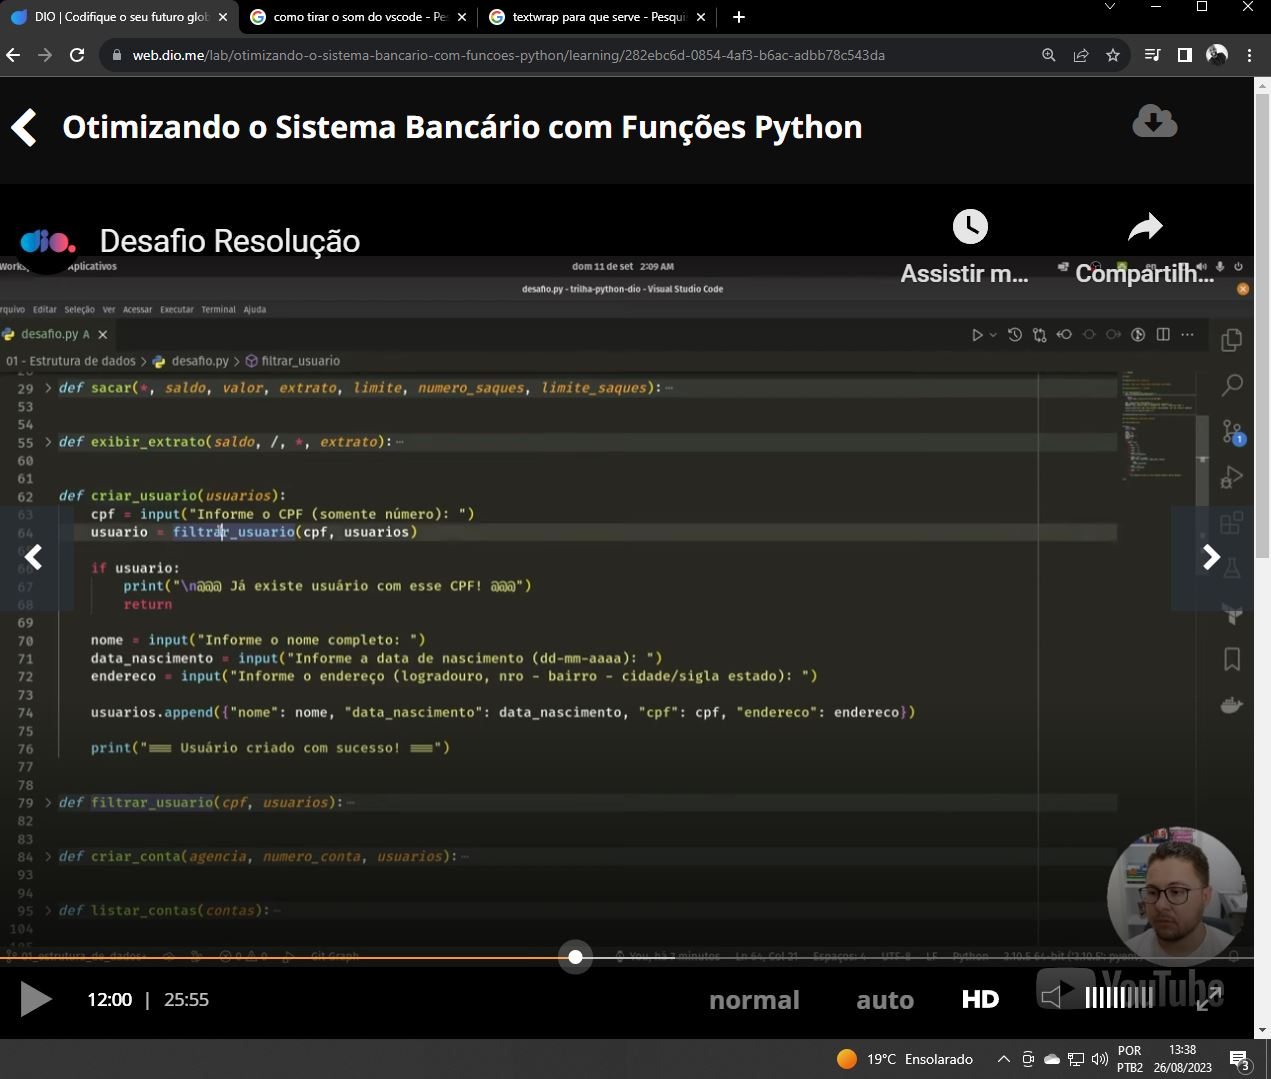
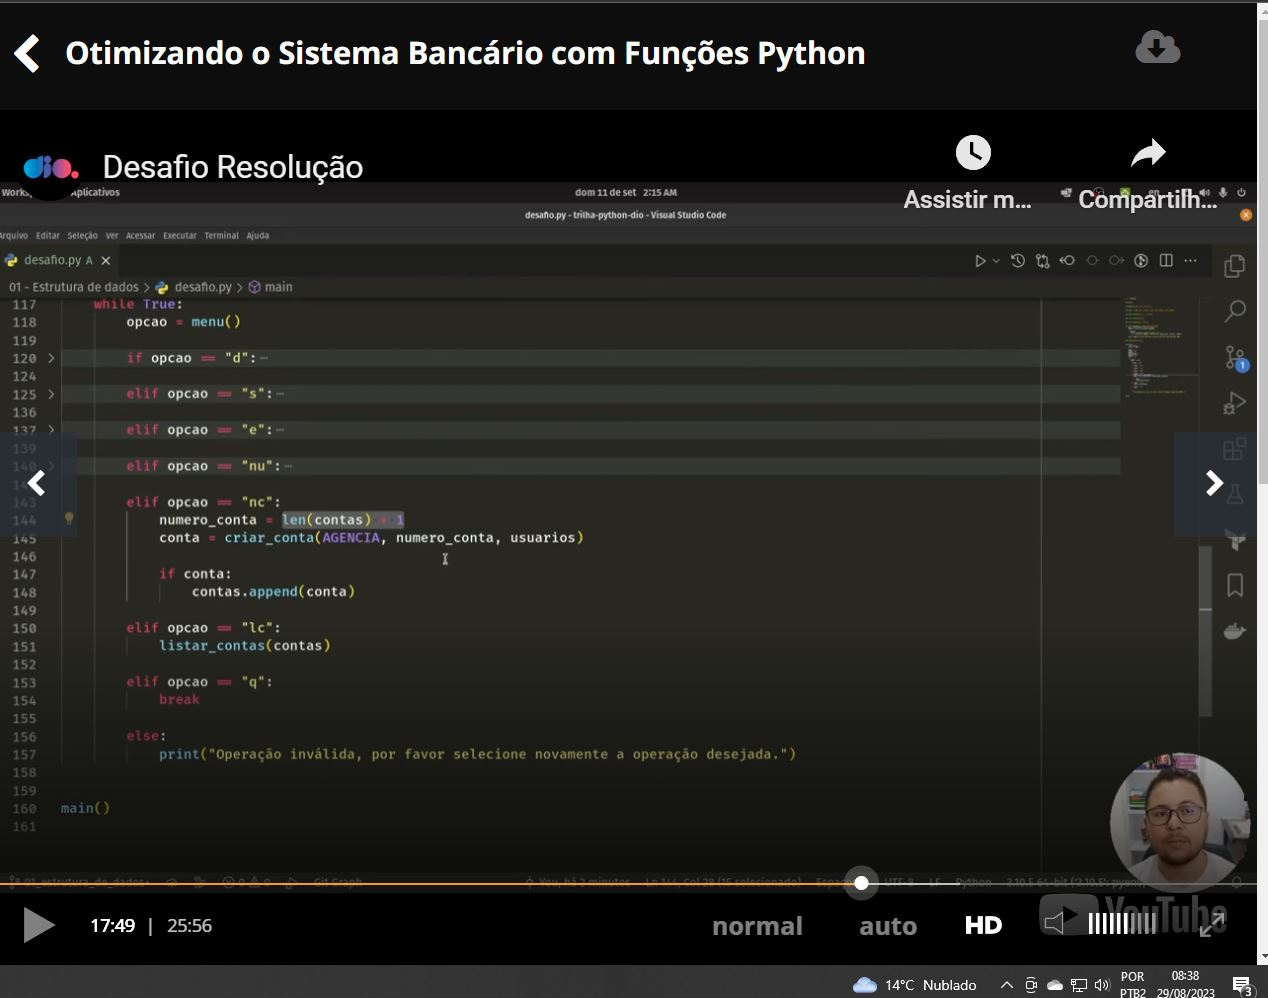
update files 29082023

Changed region(s): [[0.0, 0.0, 1.0, 1.0], [0.9227, 0.497, 0.9535, 0.5281]]

diff --git a/Dominando o Python Para Ciência de Dados/Otimizando o Sistema Bancário/sitema_bancario_funcoes.py b/Dominando o Python Para Ciência de Dados/Otimizando o Sistema Bancário/sitema_bancario_funcoes.py
@@ -75,7 +75,14 @@ def filtrar_usuario(cpf, usuarios):
     return usuarios_filtrados[0] if usuarios_filtrados else None
 
 def criar_conta(agencia, numero_conta, usuarios):
-    pass
+    cpf = input('informe o CPF do usuário')
+    usuario = filtrar_usuario(cpf, usuarios)
+
+    if usuario:
+        print('/n=== Conta criada com sucesso! ===')
+        return{'agencia': agencia, 'numero_conta': numero_conta, 'usuario': usuario}
+    
+    print('\n@@@ Usuário não encontrado, fluxo de criação de contra encerrado @@@')
 
 def listar_contas(contas):
     pass
@@ -117,7 +124,20 @@ def main():
             criar_usuario(usuarios)
         
         elif opcao == 'nc':
-            pass
+            numero_conta = len(contas) + 1
+            conta = criar_conta(AGENCIA, numero_conta, usuarios)
+
+            if conta:
+                contas.append(conta)
+        
+        elif opcao == 'lc':
+            listar_contas(contas)
+        
+        elif opcao == 'q':
+            break
+
+        else:
+            print('Operação inválida, por favor selecione novamente a operação desejada')
 
 
 main()
